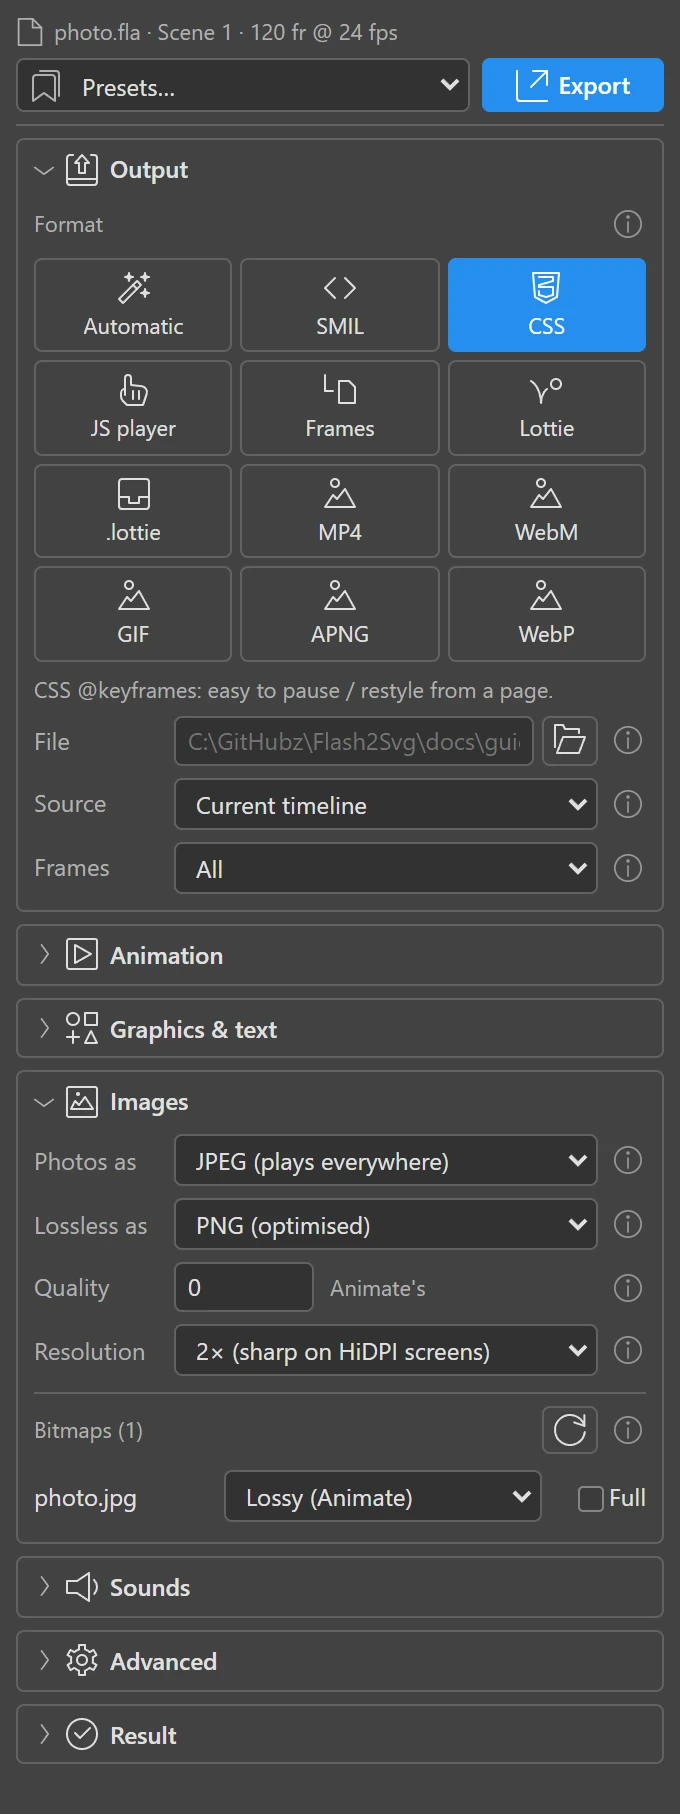
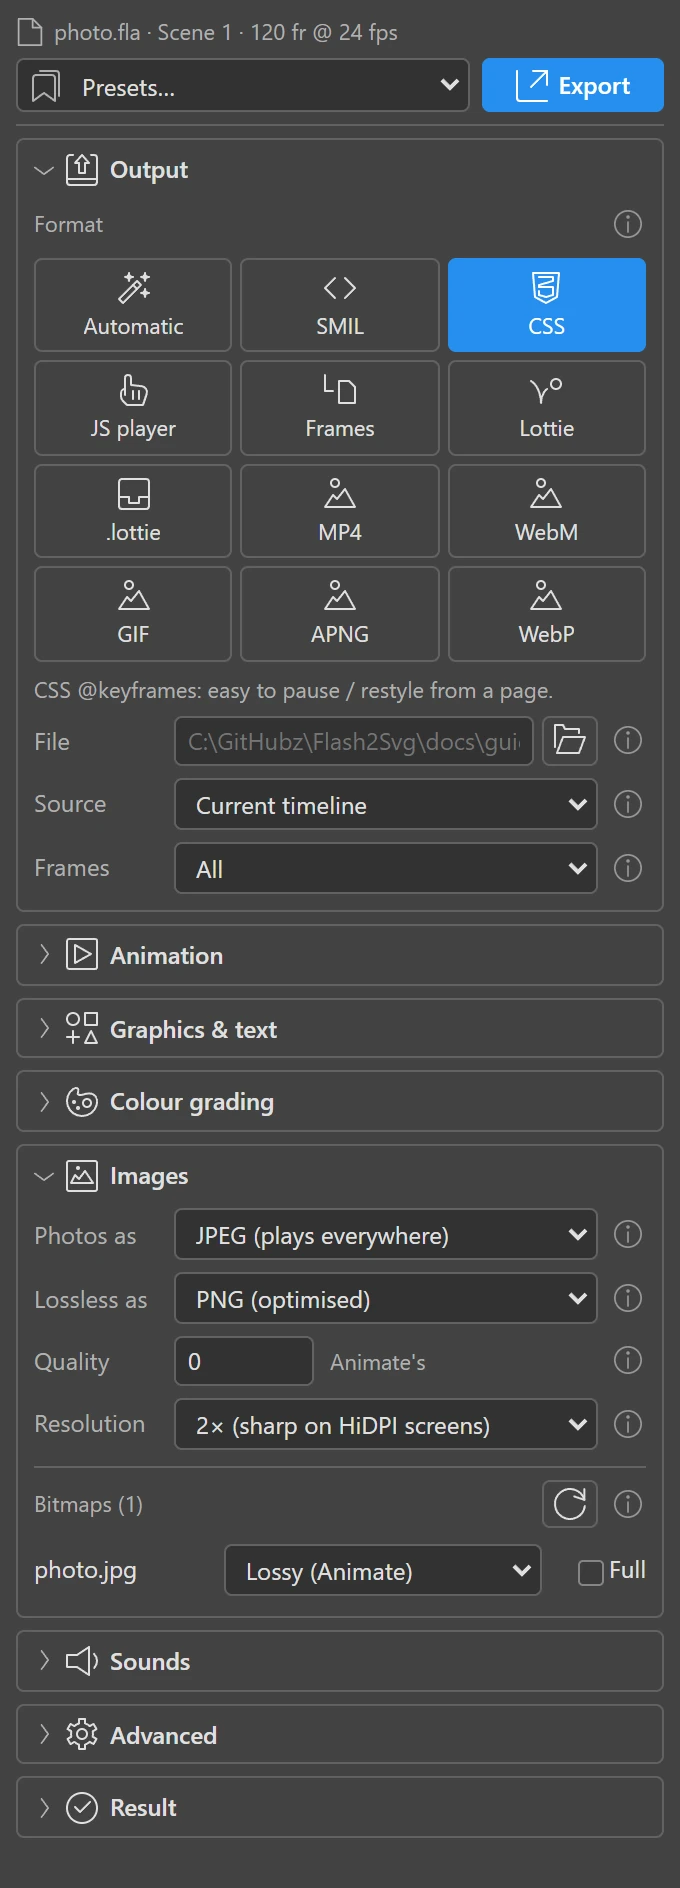
Docs: colour grading, the wide panel
Guide: Colour grading (what changes, what it costs, how close SVG and
Lottie come to grading the finished picture), the panel's columns and
its Colour grading section, --lut in the settings and command line
pages, the limits. Panel screenshots taken again, and a new one of the
wide panel with a LUT. README and architecture notes.

Changed region(s): [[0.0309, 0.0, 0.9882, 0.9879], [0.6176, 0.2778, 0.6485, 0.3087]]

diff --git a/docs/guide/pages/appearance.md b/docs/guide/pages/appearance.md
@@ -41,6 +41,24 @@ Movie clips turned or moved with Animate's 3D tools keep their perspective, with
 > [!NOTE]
 > Alpha on a symbol applies to **each shape inside**, as in Flash: where shapes overlap — the inner half of a stroke over its fill — they show through each other. Flash2SVG does the same. Inside such a symbol, alpha on nested symbols applies to them as a whole (SVG can't multiply inherited alpha per shape).
 
+## Colour grading
+
+A **LUT** (lookup table) gives the whole export one look: every colour goes through it on the way out. Colour grading tools write them — DaVinci Resolve, Premiere and After Effects, Photoshop (*File › Export › Color Lookup Tables*), film emulation packs. Flash2SVG reads `.cube` files (1D, 3D, or both, as Resolve writes them), `.3dl` files and **Hald CLUT** images (`.png`).
+
+In the panel, *Colour grading* lists the LUTs: **Add LUT…** picks files, the slider sets each one's **strength** (100 %: all of it, 50 %: halfway between the colour and the LUT's), the checkbox turns one off, the arrows change the order — they apply from top to bottom. A strip shows sample colours before and after. On the command line: `--lut look.cube`, or `--lut look.cube=60` for 60 %; repeat it for several.
+
+What changes:
+
+- **Drawings:** every fill and stroke. **Gradients** get the colour the LUT gives at every point, not only at their stops: where the LUT bends the colours between two stops, stops are added (within one level of 255) — *Linear RGB* gradients included.
+- **Bitmaps**, pixel by pixel, at the size they are written. Animate's own JPEG of a *Photo* bitmap has the old colours, so it is compressed anew.
+- **Text** colours, the border of text fields, the **stage colour**, the colours of **filters** (shadow, glow, bevel; gradient glows and bevels along their whole ramp).
+- **Colour effects** — *tint*, *brightness*, *advanced* — are worked out for the graded colours: a full tint shows the LUT's colour for the tint, a half one comes as close as one effect can; tweens of them stay tweens. *Alpha* is not a colour and stays as it is. The camera's tint too.
+- **GIF, WebP, APNG, MP4 and WebM** grade each finished picture instead, so they are exact: also where see-through shapes, blends and filters mix colours.
+
+In SVG and Lottie, colours that mix on the screen — see-through shapes over each other, blurs, blend modes, *Adjust Color* — mix the graded colours, which is close to grading the mixture but not the same. Measured on the guide's demos against grading Animate's finished pictures: 0.1–0.7 levels of 255 off on average (the edges of shapes), 2 with filters, 3.3 with blend modes. Not graded: colours scripts make while the JS player runs (drawing with `graphics`, `BitmapData`, `textColor`), linked videos, and UI components (they are the browser's own controls). A LUT for camera footage in log colours expects other input and looks wrong on Animate's colours, as it would in an editor.
+
+What it costs, with a strong look: solid colours nothing, gradients 0–3 % (their added stops), shape tweens whose colours change 4–22 % in SMIL and up to a third in Lottie — their in-between colours are no longer a straight line, so they get keys of their own (only where a straight line would be more than a level off). Grading takes 4–8 ns a pixel (a 1920×1080 picture in 8–16 ms); a GIF of a moving photo takes about 12 % longer.
+
 ## Fills and strokes
 
 - **Solid** fills, **linear** and **radial gradients** (focal point, *repeat* and *reflect*, *Linear RGB* interpolation — also on strokes and in shape tweens), **bitmap fills** repeated or clipped (Animate stretches the edge pixels of a clipped fill; so does the export).

diff --git a/docs/architecture.md b/docs/architecture.md
@@ -146,6 +146,25 @@ arrow functions). It is resumable: the panel calls `Flash2Svg.start(options)` an
   writers emit every animation once plus a looping *tail* (SMIL: begins at the end of a clock
   animation; CSS: a second, delayed infinite animation). Played once, everything holds the last
   tick shown.
+- **Colour grading** (`core/grade.ts`, `ExportSettings.grade`, made by the host from LUT files):
+  `.cube` (1D, 3D, a 1D shaper before a 3D table; domains), `.3dl` (mesh line, blue fastest,
+  10–16-bit) and Hald CLUTs, chained with strengths, 3D tables read tetrahedrally; `toJSON` is an
+  FNV hash of tables and strengths, so the id prefix hashes it cheaply. Where colours change:
+  `importArtwork` (`gradeArtwork`, after the colour signatures of Linear RGB gradients and fixed
+  strokes were matched; pen-stroke signatures are graded in `createContext`), gradients rebuilt
+  from the colour between their stops (sRGB or linear light) with stops added by halving while the
+  graded colour is more than 1/255 off the straight line (the drawings of one shape tween — its
+  frames and keyframes, joined by union-find — use the union of their frames' halving points,
+  by each gradient's place in its drawing: `gradientPlan`, `stopPlan`, so the morph keeps one
+  structure); `gradeModel` before compiling (cached per grade and model, for format "auto"): stage
+  colour, text runs and field borders (`TextElement.borderColors`), filter colours (gradient
+  filters resampled at the 17 places the SVG writer reads them), the camera's tint, colour effects
+  fitted by least squares over a 5³ grid of colours on the ones the effect doesn't clamp (one
+  multiplier for all channels where the effect has one; tween samples between two keyframes'
+  effects get the fitted effects' in-between at the same place, so tracks keep their keys);
+  bitmaps in `encodeImages` (graded on a copy at the size written; no reuse of Animate's JPEG;
+  no `master`); GIF, WebP, APNG and video grade the rasterised frames in `tickSource` instead
+  (`gradesPictures`), exact. `Grade.pixels`: a 2¹⁴-entry direct-mapped cache behind a same-as-the-last-pixel check, one 3D table at full strength with its 256 levels placed once: 4–8 ns a pixel.
 - **Bitmaps in the output** (`emit/document.ts`): each bitmap is one `<image>` in `<defs>`;
   bitmap elements, the player's poster and bitmap fills (the atlas' own `<image>` becomes a
   `<use>`) refer to it, so an embedded bitmap is in the file once.
@@ -257,7 +276,10 @@ Lottie spec 1.0 has (no expressions) plus layer effects for filters, so lottie-w
   frame boundary just before the frame); runs of nodes that repeat sooner than the timeline
   around them go into such a slice.
 - **Shape tweens:** the morph drawing is converted at every key of its ratio track and the values
-  that change are merged into keyframes (Lottie blends keyframes linearly, like the morph);
+  that change are merged into keyframes (channels with values per frame — colours a LUT bends,
+  Linear RGB stops — are found by comparing every frame with the blend and keyed a frame, alone;
+  colours only where a straight line between keys is more than a level off, `keepWithin`, as in
+  SMIL) (Lottie blends keyframes linearly, like the morph);
   values that aren't linear in the ratio (an elliptical gradient's inverse transform) are found
   by a check at each stretch's middle and keyed every tick.
 - **Hairlines** keep their width in pixels at the scale their symbol starts with (Lottie strokes

diff --git a/README.md b/README.md
@@ -98,6 +98,22 @@ frame for places where animation doesn't run, embedding vs. linking images, deci
 like Flash's scale modes — *show all* (letterboxed in the stage colour when the background is
 exported), *no border* (cropped) or *stretch* (exact fit).
 
+The panel spreads out when you make it wider: two columns of sections from about 620 pixels (the
+result next to the settings, the top bar on one line), three from about 980.
+
+### Colour grading
+
+*Colour grading* (`--lut file[=percent]`, repeatable) puts LUTs between Animate's colours and the
+export: `.cube` (1D, 3D or both, as Resolve writes them), `.3dl` and Hald CLUT images, each with a
+strength, applied in order. Every colour changes: fills and strokes, gradients (with stops added
+where the LUT bends the colour between two), text, filter colours, the stage colour, colour
+effects (fitted so a tint shows the graded tint colour; tweens stay tweens) and every pixel of the
+bitmaps (re-encoded). GIF, WebP, APNG and video grade each finished picture, exactly. In SVG and
+Lottie, colours that mix on screen (see-through shapes, blurs, blends) mix the graded colours.
+Colours made by scripts at run time, linked videos and UI components keep theirs. A strong look
+adds 0–3 % to drawings with gradients and 4–22 % (SMIL) to shape tweens whose colours change;
+grading takes 4–8 ns a pixel.
+
 ### Start and scroll
 
 - *When visible* starts the animation once half of it is on screen (or it fills half the screen).
@@ -488,8 +504,9 @@ Animate's own frames too (`node scripts/e2e-compare.ts guide:<name>`, after
 
 `npm run e2e:ui` checks the panel's interface without Animate (after `npm run build`): the built
 panel in Edge with a stand-in for Animate's host — every "i" tip (hover, keyboard, pinned, its
-guide link), icons, layout at narrow widths, text contrast on Animate's four interface
-brightnesses, presets and stored settings from other versions.
+guide link), icons, layout from 220 to 1100 pixels (one to three columns), text contrast on
+Animate's four interface brightnesses, presets and stored settings from other versions, and the
+colour grading list (LUTs added, missing, moved, weighed, the before/after strip).
 
 `npm run e2e:panel` tests the panel inside Animate: it builds a self-test version, signs it with
 Adobe's `ZXPSignCmd` (put it into `tools/zxpsign/`; no CEP debug mode needed), installs it, lets

diff --git a/docs/guide/pages/panel.md b/docs/guide/pages/panel.md
@@ -7,6 +7,10 @@ description: A tour of every section and setting of the Flash2SVG panel in Anima
 
 The panel works on the document in front of you. Its sections fold away; it remembers which are open and every setting, per user — and, if you like, inside the FLA.
 
+Make the panel wider and it spreads out instead of growing longer: from about 620 pixels the sections stand in two columns (the result next to the settings) and the top bar is one line, from about 980 pixels in three, with the result and the advanced settings in a column of their own. In a section that is wide enough, the settings stand two to a row.
+
+![The panel at about 1000 pixels: Output and Animation, then Graphics & text, Colour grading with a LUT and its before/after strip, Images and Sounds, then the result of an export with its preview.](images/panel-wide.webp "A wide panel: three columns.")
+
 Every setting has a small **i** at the right: point at it (or reach it with the Tab key) for a short explanation, click it to keep the explanation open; its link leads to the matching part of this guide.
 
 ![A clicked "i" next to Start: its explanation stays open, with a link into this guide.](images/panel-tip.webp "An explanation, pinned by a click.")
@@ -50,6 +54,10 @@ Every setting has a small **i** at the right: point at it (or reach it with the 
 | **Embed fonts** | The fonts of dynamic text go into the file as small WOFF2 subsets of the letters used. See [Text and fonts](text.md). |
 | **Include hidden layers** | Hidden layers are exported (as Flash publishes them by default). Untick to leave them out. |
 | **Include guide layers** | Guide layers are never shown in Flash; tick to export them anyway. |
+
+## Colour grading
+
+LUTs that every colour of the export goes through, top to bottom: **Add LUT…** (`.cube`, `.3dl`, Hald CLUT `.png`), a **strength** slider, a checkbox to leave one out for now, arrows to change the order, and a strip of sample colours before and after. A LUT whose file has moved is named in red. What it changes, and how: [Colour grading](appearance.md#colour-grading).
 
 ## Images
 

diff --git a/docs/guide/pages/limits.md b/docs/guide/pages/limits.md
@@ -59,6 +59,7 @@ Most of the time is Animate handing over the drawings (the progress bar says "Ex
 - **Groups** that hold symbol instances are split: the group's drawing first, its instances above it.
 - **9-slice:** an animated scale is sliced frame by frame, nested symbols scale with it; named instances and symbols whose content changes over their own frames keep normal scaling then (warned).
 - **3D** needs a browser that does CSS 3D inside an SVG: Chromium browsers and Firefox do; elsewhere, and in Lottie, it comes out flat, as close as flat can be.
+- **Colour grading** grades each colour in SVG and Lottie: where colours mix on the screen (see-through shapes, blurs, blend modes) the graded colours mix, close to but not the same as grading the mixture; GIF, WebP, APNG and video grade the finished pictures exactly. Colours the JS player's scripts make at run time, linked videos and UI components keep theirs. See [Colour grading](appearance.md#colour-grading).
 - **Lottie:** button states, UI components and editable text are left out, and sounds unless you ask for them (only lottie-web plays those); *subtract* and *add* are approximated. lottie-web draws an *inner gradient bevel* only faintly (Skottie and dotLottie draw it right). See [Lottie](lottie.md#what-is-not-in-lottie).
 - Animate adds the temporary copy each export works on to its *Recent files* list (JSFL can't open a document without that).
 

diff --git a/docs/guide/pages/command-line.md b/docs/guide/pages/command-line.md
@@ -62,6 +62,7 @@ Wrong options get a message, not a stack trace, and the exit code is 1 — handy
 | `--image-mode <name=m>` | per bitmap (library name): `lossy` or `lossless`; repeatable |
 | `--image-resolution <x>` | write bitmaps shown smaller down to x times their largest size on stage (default 2; 0 = every pixel) |
 | `--image-full <name>` | keep every pixel of this bitmap; repeatable |
+| `--lut <file>[=<percent>]` | colour grading: every colour, bitmaps included, through the LUT (`.cube`, `.3dl`, or a Hald CLUT `.png`) at that strength (default 100); repeatable, applied in order. See [Colour grading](appearance.md#colour-grading) |
 | `--sound-format <f>` | compressed sounds (JS player): `mp3` (default), `opus` |
 | `--sound-bitrate <kbps>` | on MP3's scale (Opus uses half); default: each sound's own |
 | `--sound-mode <name=m>` | per sound: `lossy` or `lossless` (WAV); repeatable |

diff --git a/docs/guide/pages/settings.md b/docs/guide/pages/settings.md
@@ -28,6 +28,8 @@ description: Every Flash2SVG setting in one table — where it is in the panel, 
 | Embed fonts | `--no-embed-fonts` turns it off | on | SVG |
 | Include hidden layers | `--no-hidden-layers` turns it off | on | all |
 | Include guide layers | `--guides` | off | all |
+| **Colour grading** | | | |
+| LUTs, in order, with strength | `--lut file[=percent]`, repeatable | none | all |
 | **Images** | | | |
 | Lossy format | `--image-lossy jpeg\|webp\|avif` | JPEG | all with bitmaps |
 | Lossless format | `--image-lossless png\|webp` | PNG | all with bitmaps |
